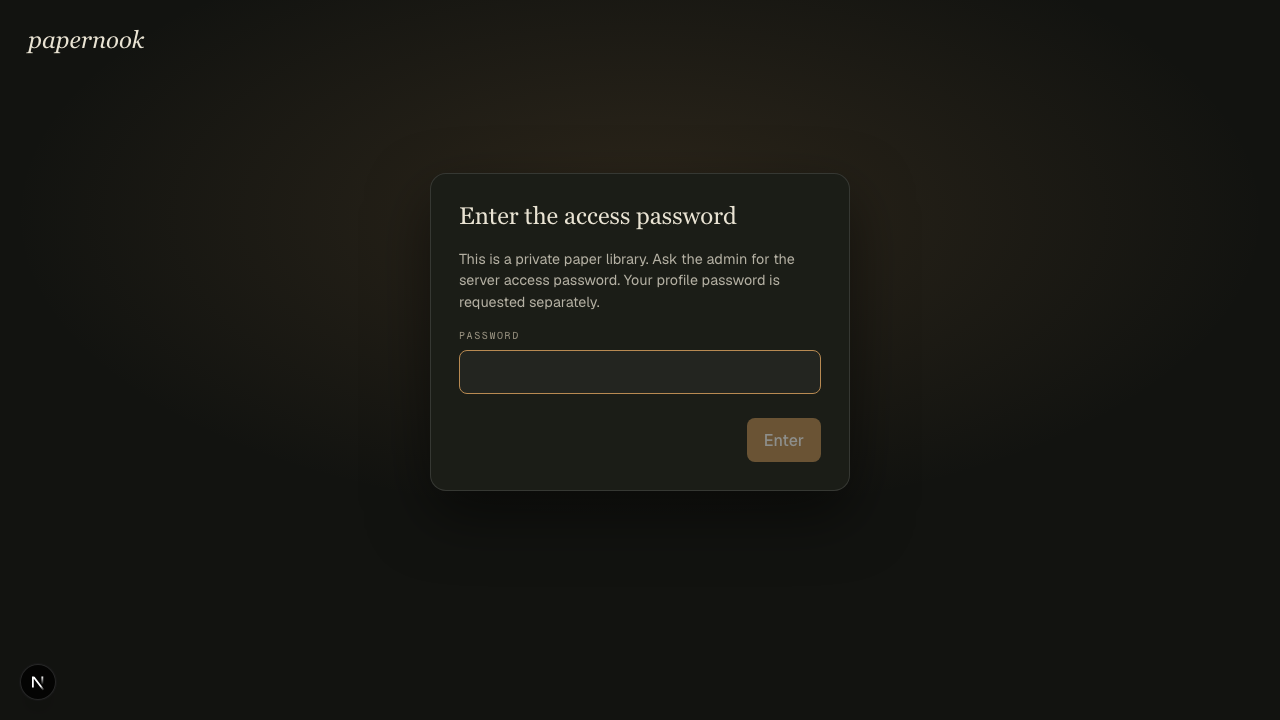
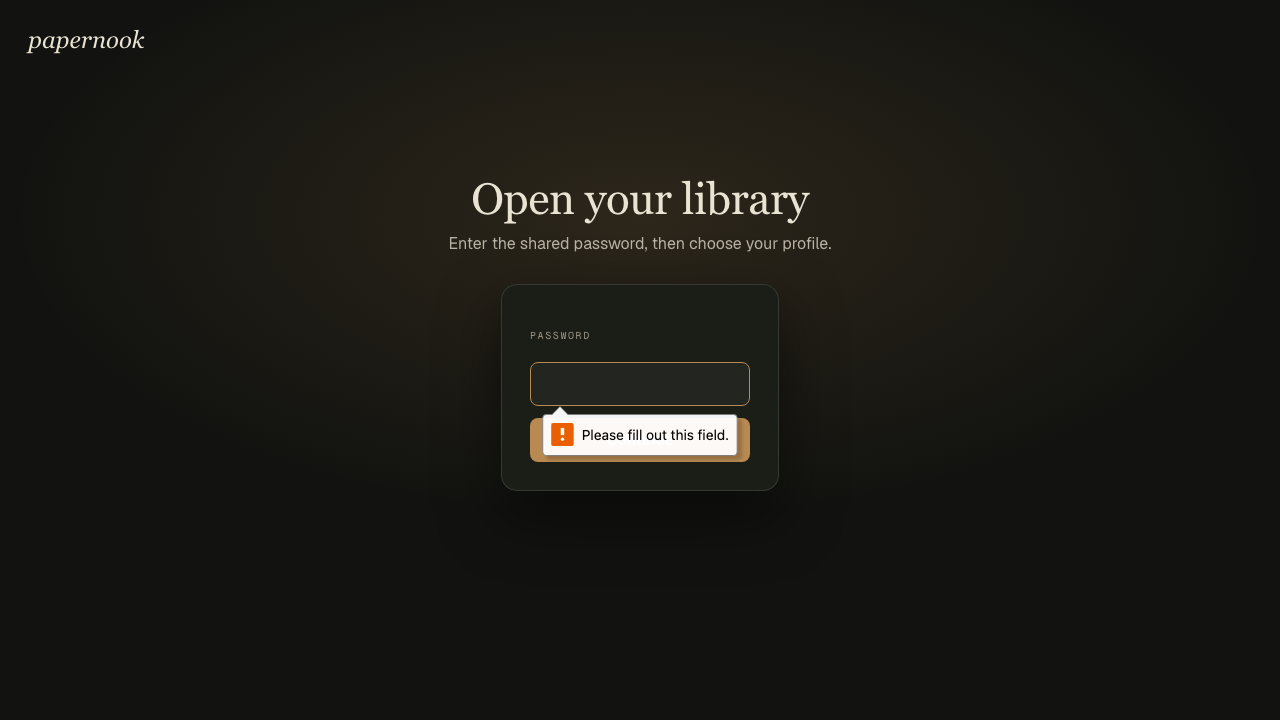
access: simplify password entry and security settings
Problem: Shared-password entry exposed an account field and security settings were difficult to use, especially on phones.

Approach: Adopt Sidedoor 0.3.3, use an invisible app label for password managers, style and group access controls, and cover phone and desktop layouts.

Result: One password opens profile selection, Admin security controls fit the viewport, and CI plus all 52 browser tests pass.

Changed region(s): [[0.3438, 0.2444, 0.6562, 0.4278], [0.4062, 0.55, 0.6562, 0.6417], [0.375, 0.4583, 0.4688, 0.4889]]

diff --git a/tests/e2e/settings-profile.spec.ts b/tests/e2e/settings-profile.spec.ts
@@ -10,6 +10,72 @@ async function loginAsAdmin(page: Page): Promise<void> {
   await selectHouseholdProfile(page, "Fixture Owner");
 }
 
+for (const width of [375, 1280]) {
+  test(`app access uses one password and keeps security actions clear at ${width}px`, async ({
+    page,
+  }, testInfo) => {
+    await page.setViewportSize({ width, height: 900 });
+    await page.goto("/login");
+    await expect(page.getByLabel("Password", { exact: true })).toBeVisible();
+    await expect(page.locator("input:visible")).toHaveCount(1);
+    await expect(page.locator("input:visible")).toHaveAttribute(
+      "type",
+      "password",
+    );
+    await expect(page.getByText("Shared account", { exact: true })).toHaveCount(
+      0,
+    );
+    await expect(page.locator('input[autocomplete="username"]')).toHaveValue(
+      "Papernook",
+    );
+    await expect(page.locator('input[autocomplete="username"]')).toBeHidden();
+    await page
+      .getByLabel("Password", { exact: true })
+      .fill("browser-owner-password-phrase");
+    await page.getByRole("button", { name: "Continue", exact: true }).click();
+    await finishHouseholdAdmission(page);
+    await selectHouseholdProfile(page, "Fixture Owner");
+    await page.goto("/settings#profile");
+    await expect(
+      page.getByRole("heading", { name: "App access", exact: true }),
+    ).toBeVisible();
+    const security = page.locator(".sd-access-security");
+    const bounds = await security.boundingBox();
+    expect(bounds).not.toBeNull();
+    expect(bounds!.x).toBeGreaterThanOrEqual(0);
+    expect(bounds!.x + bounds!.width).toBeLessThanOrEqual(width);
+    await expect(page.getByLabel("Passkey name")).toHaveCount(0);
+    await expect(page.getByLabel("New password", { exact: true })).toBeHidden();
+    await page
+      .getByRole("heading", { name: "App access", exact: true })
+      .scrollIntoViewIfNeeded();
+    await page.screenshot({ path: testInfo.outputPath("app-access.png") });
+    await page.getByText("Change shared password", { exact: true }).click();
+    await expect(
+      page.getByLabel("New password", { exact: true }),
+    ).toBeVisible();
+    const button = page.getByRole("button", {
+      name: "Change password",
+      exact: true,
+    });
+    await expect(button).toBeVisible();
+    const paint = await button.evaluate((element) => {
+      const style = getComputedStyle(element);
+      return {
+        background: style.backgroundColor,
+        color: style.color,
+        height: element.getBoundingClientRect().height,
+      };
+    });
+    expect(paint.background).not.toBe("rgba(0, 0, 0, 0)");
+    expect(paint.background).not.toBe(paint.color);
+    expect(paint.height).toBeGreaterThanOrEqual(44);
+    expect(
+      await page.evaluate(() => document.documentElement.scrollWidth),
+    ).toBeLessThanOrEqual(width);
+  });
+}
+
 test.afterEach(async ({ page }) => {
   await page.request.patch("/api/v1/profiles/fixture-owner", {
     data: { avatarSlug: "hummingbird" },
@@ -82,7 +148,7 @@ test("household admission preserves Maya's library without granting owner contro
     .fill("browser-owner-password-phrase");
   await page
     .locator("form")
-    .getByRole("button", { name: "Enter household", exact: true })
+    .getByRole("button", { name: "Continue", exact: true })
     .click();
   await finishHouseholdAdmission(page);
   await page.getByRole("button", { name: "Switch to Maya" }).click();

diff --git a/tests/e2e/docs-screenshots.spec.ts b/tests/e2e/docs-screenshots.spec.ts
@@ -95,25 +95,23 @@ test.describe.serial("documentation journeys and screenshots", () => {
       page.getByRole("heading", { name: "Open your library" }),
     ).toBeVisible();
     await expect(page.getByLabel("Password", { exact: true })).toBeVisible();
+    await expect(page).toHaveScreenshot(["setup", "access-gate.png"], {
+      animations: "disabled",
+      // Assertions below verify admission while the image documents the form.
+      maxDiffPixelRatio: 0.02,
+    });
     await page
       .locator("form")
-      .getByRole("button", { name: "Enter household", exact: true })
+      .getByRole("button", { name: "Continue", exact: true })
       .click();
     await expect(page).toHaveURL("/login");
     await expect(
       page.getByRole("button", { name: "Switch to Maya" }),
     ).toHaveCount(0);
-    await expect(page).toHaveScreenshot(["setup", "access-gate.png"], {
-      animations: "disabled",
-      // Protect the documented layout while allowing Linux/macOS font
-      // rasterization differences. Assertions above verify the gate itself.
-      maxDiffPixelRatio: 0.02,
-    });
-
     await page.getByLabel("Password", { exact: true }).fill("wrong-password");
     await page
       .locator("form")
-      .getByRole("button", { name: "Enter household", exact: true })
+      .getByRole("button", { name: "Continue", exact: true })
       .click();
     await expect(
       page
@@ -123,7 +121,7 @@ test.describe.serial("documentation journeys and screenshots", () => {
     await page.getByLabel("Password", { exact: true }).fill(password);
     await page
       .locator("form")
-      .getByRole("button", { name: "Enter household", exact: true })
+      .getByRole("button", { name: "Continue", exact: true })
       .click();
 
     await finishHouseholdAdmission(page);
@@ -422,7 +420,7 @@ test.describe.serial("documentation journeys and screenshots", () => {
     await expect(page.locator("html")).toHaveAttribute("data-theme", target);
   });
 
-  test("sharing, graph, household access, and device setup are visible before sending", async ({
+  test("sharing, graph, app access, and device setup are visible before sending", async ({
     page,
   }, testInfo) => {
     await loginAsOwner(page);
@@ -497,7 +495,7 @@ test.describe.serial("documentation journeys and screenshots", () => {
       page.getByRole("listitem").filter({ hasText: "Fixture Owner" }),
     ).toContainText("(admin)");
     const household = page
-      .getByRole("heading", { name: "Household access" })
+      .getByRole("heading", { name: "Share access" })
       .locator("..");
     await expect(household).toContainText("shared password");
     const device = page

diff --git a/src/components/profiles/security/AccountSecurity.module.css b/src/components/profiles/security/AccountSecurity.module.css
@@ -1,0 +1,77 @@
+.root {
+  color: var(--foreground);
+  max-width: 42rem;
+}
+
+.form {
+  display: grid;
+  gap: 12px;
+  max-width: 28rem;
+  margin-top: 16px;
+}
+
+.fieldLabel {
+  font-size: 0.875rem;
+  font-weight: 500;
+}
+
+.nameInput {
+  box-sizing: border-box;
+  width: 100%;
+  min-width: 0;
+  min-height: 44px;
+  padding: 10px 12px;
+  border: 1px solid color-mix(in srgb, var(--foreground) 24%, transparent);
+  border-radius: 8px;
+  background: var(--background);
+  color: inherit;
+  font: inherit;
+}
+
+.primaryBtn,
+.ghostBtn {
+  min-height: 44px;
+  padding: 10px 16px;
+  border: 1px solid color-mix(in srgb, var(--foreground) 24%, transparent);
+  border-radius: 8px;
+  font: inherit;
+  font-weight: 600;
+  cursor: pointer;
+}
+
+.primaryBtn {
+  background: var(--color-primary, #b88a52);
+  color: var(--color-primary-contrast, #121310);
+  border-color: transparent;
+}
+
+.ghostBtn {
+  background: transparent;
+  color: inherit;
+}
+
+.primaryBtn:disabled,
+.ghostBtn:disabled {
+  opacity: 0.55;
+  cursor: wait;
+}
+
+.nameInput:focus-visible,
+.primaryBtn:focus-visible,
+.ghostBtn:focus-visible {
+  outline: 2px solid var(--color-primary, #b88a52);
+  outline-offset: 3px;
+}
+
+.gateHint {
+  color: color-mix(in srgb, var(--foreground) 72%, var(--background));
+  font-size: 0.9rem;
+  line-height: 1.6;
+  margin: 0 0 12px;
+}
+
+.error {
+  color: var(--color-danger, #e89989);
+  line-height: 1.5;
+  margin: 12px 0;
+}

diff --git a/src/components/profiles/AccountSecurity.tsx b/src/components/profiles/AccountSecurity.tsx
@@ -3,11 +3,13 @@
 import { useRouter } from "next/navigation";
 import "thesidedoor/styles.css";
 import { AccessSecurity } from "thesidedoor/react";
-import styles from "./ProfilePicker.module.css";
+import styles from "./security/AccountSecurity.module.css";
 
 export function AccountSecurity() {
   const router = useRouter();
   const classes = {
+    root: styles.root,
+    form: styles.form,
     label: styles.fieldLabel,
     input: styles.nameInput,
     button: styles.primaryBtn,
@@ -19,8 +21,13 @@ export function AccountSecurity() {
     <AccessSecurity
       endpoint="/api/v1/access"
       showRecoveryCodes={false}
+      copy={{ passwordManagerName: "Papernook" }}
       classes={classes}
       onSignInRequired={() => {
+        router.push("/login");
+        router.refresh();
+      }}
+      onHouseholdEntered={() => {
         router.push("/login");
         router.refresh();
       }}

diff --git a/src/app/settings/page.tsx b/src/app/settings/page.tsx
@@ -290,7 +290,7 @@ export default async function SettingsPage() {
                 )}
 
                 <div className={styles.subsection}>
-                  <h3>Household access</h3>
+                  <h3>Share access</h3>
                   <p>
                     Share the library address and shared password with someone
                     you trust. After entering, they can choose or create a

diff --git a/tests/e2e/support/household-access.ts b/tests/e2e/support/household-access.ts
@@ -17,7 +17,7 @@ export async function enterHousehold(page: Page): Promise<void> {
   await page.getByLabel("Password", { exact: true }).fill(password);
   await page
     .locator("form")
-    .getByRole("button", { name: "Enter household", exact: true })
+    .getByRole("button", { name: "Continue", exact: true })
     .click();
   await finishHouseholdAdmission(page);
 }

diff --git a/src/components/profiles/AccessGate.tsx b/src/components/profiles/AccessGate.tsx
@@ -32,6 +32,7 @@ export function AccessGate() {
         initialMode="household"
         modes={["household"]}
         claimModes={["household"]}
+        copy={{ householdAccount: "Papernook" }}
         classes={classes}
         onSignedIn={signedIn}
       />

diff --git a/src/components/profiles/ProfilePicker.module.css b/src/components/profiles/ProfilePicker.module.css
@@ -363,6 +363,15 @@
 
 .accessPanel {
   width: min(520px, 100%);
+  display: grid;
+  gap: 12px;
+}
+
+.accessPanel .primaryBtn,
+.accessPanel .ghostBtn {
+  justify-content: center;
+  margin-left: 0;
+  width: 100%;
 }
 
 .hiddenAccessNavigation {

diff --git a/src/app/settings/settings.module.css b/src/app/settings/settings.module.css
@@ -7,6 +7,8 @@
     transparent
   );
   --settings-line: rgba(127, 127, 127, 0.22);
+  width: 100%;
+  min-width: 0;
   max-width: 1200px;
   margin: 0 auto;
   padding: 2.5rem 1.5rem 5rem;

diff --git a/docs/user-guide.md b/docs/user-guide.md
@@ -140,7 +140,8 @@ their own profile. Papernook offers to save a passkey with Apple Passwords or
 another WebAuthn manager after password entry. This step is optional. A saved
 passkey opens the picker on later visits. Anyone admitted can choose Admin and
 manage settings; choosing another profile removes that access. Admin can revoke
-household passkeys in account security.
+passkeys in App access. The entry screen shows only Password and Continue;
+there is no account name to enter.
 
 ### Option A: custom domain
 
